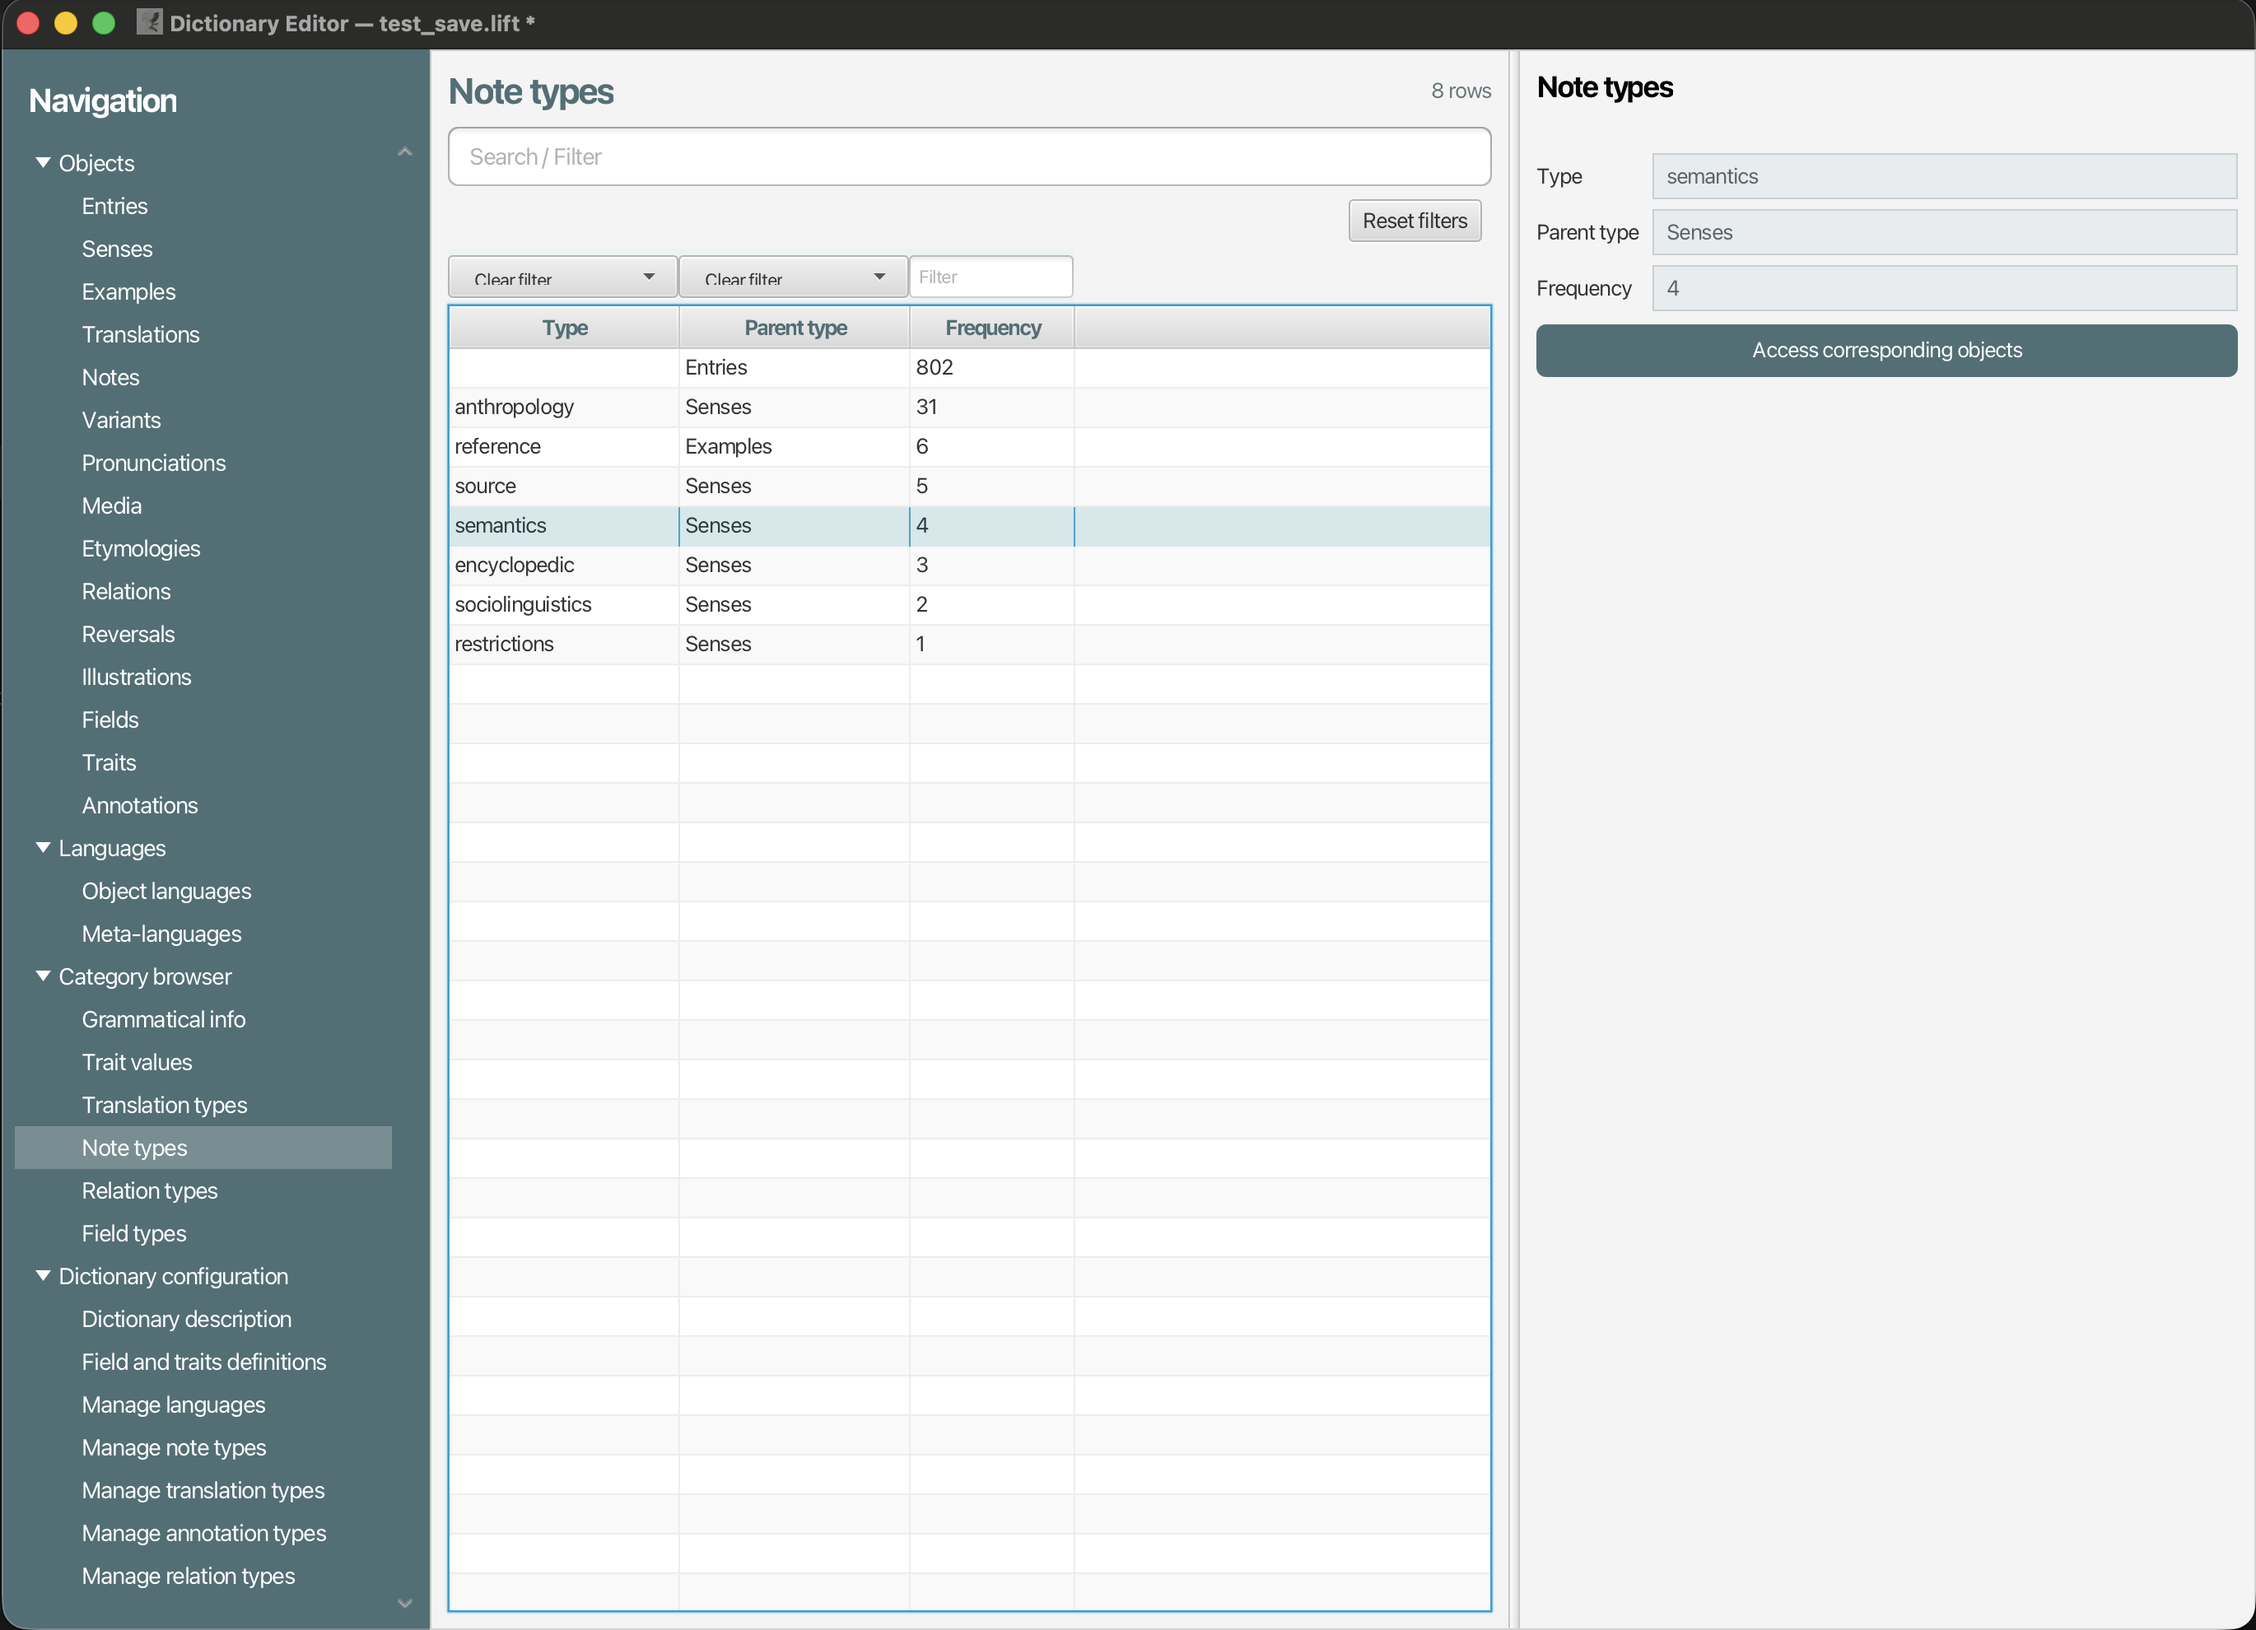
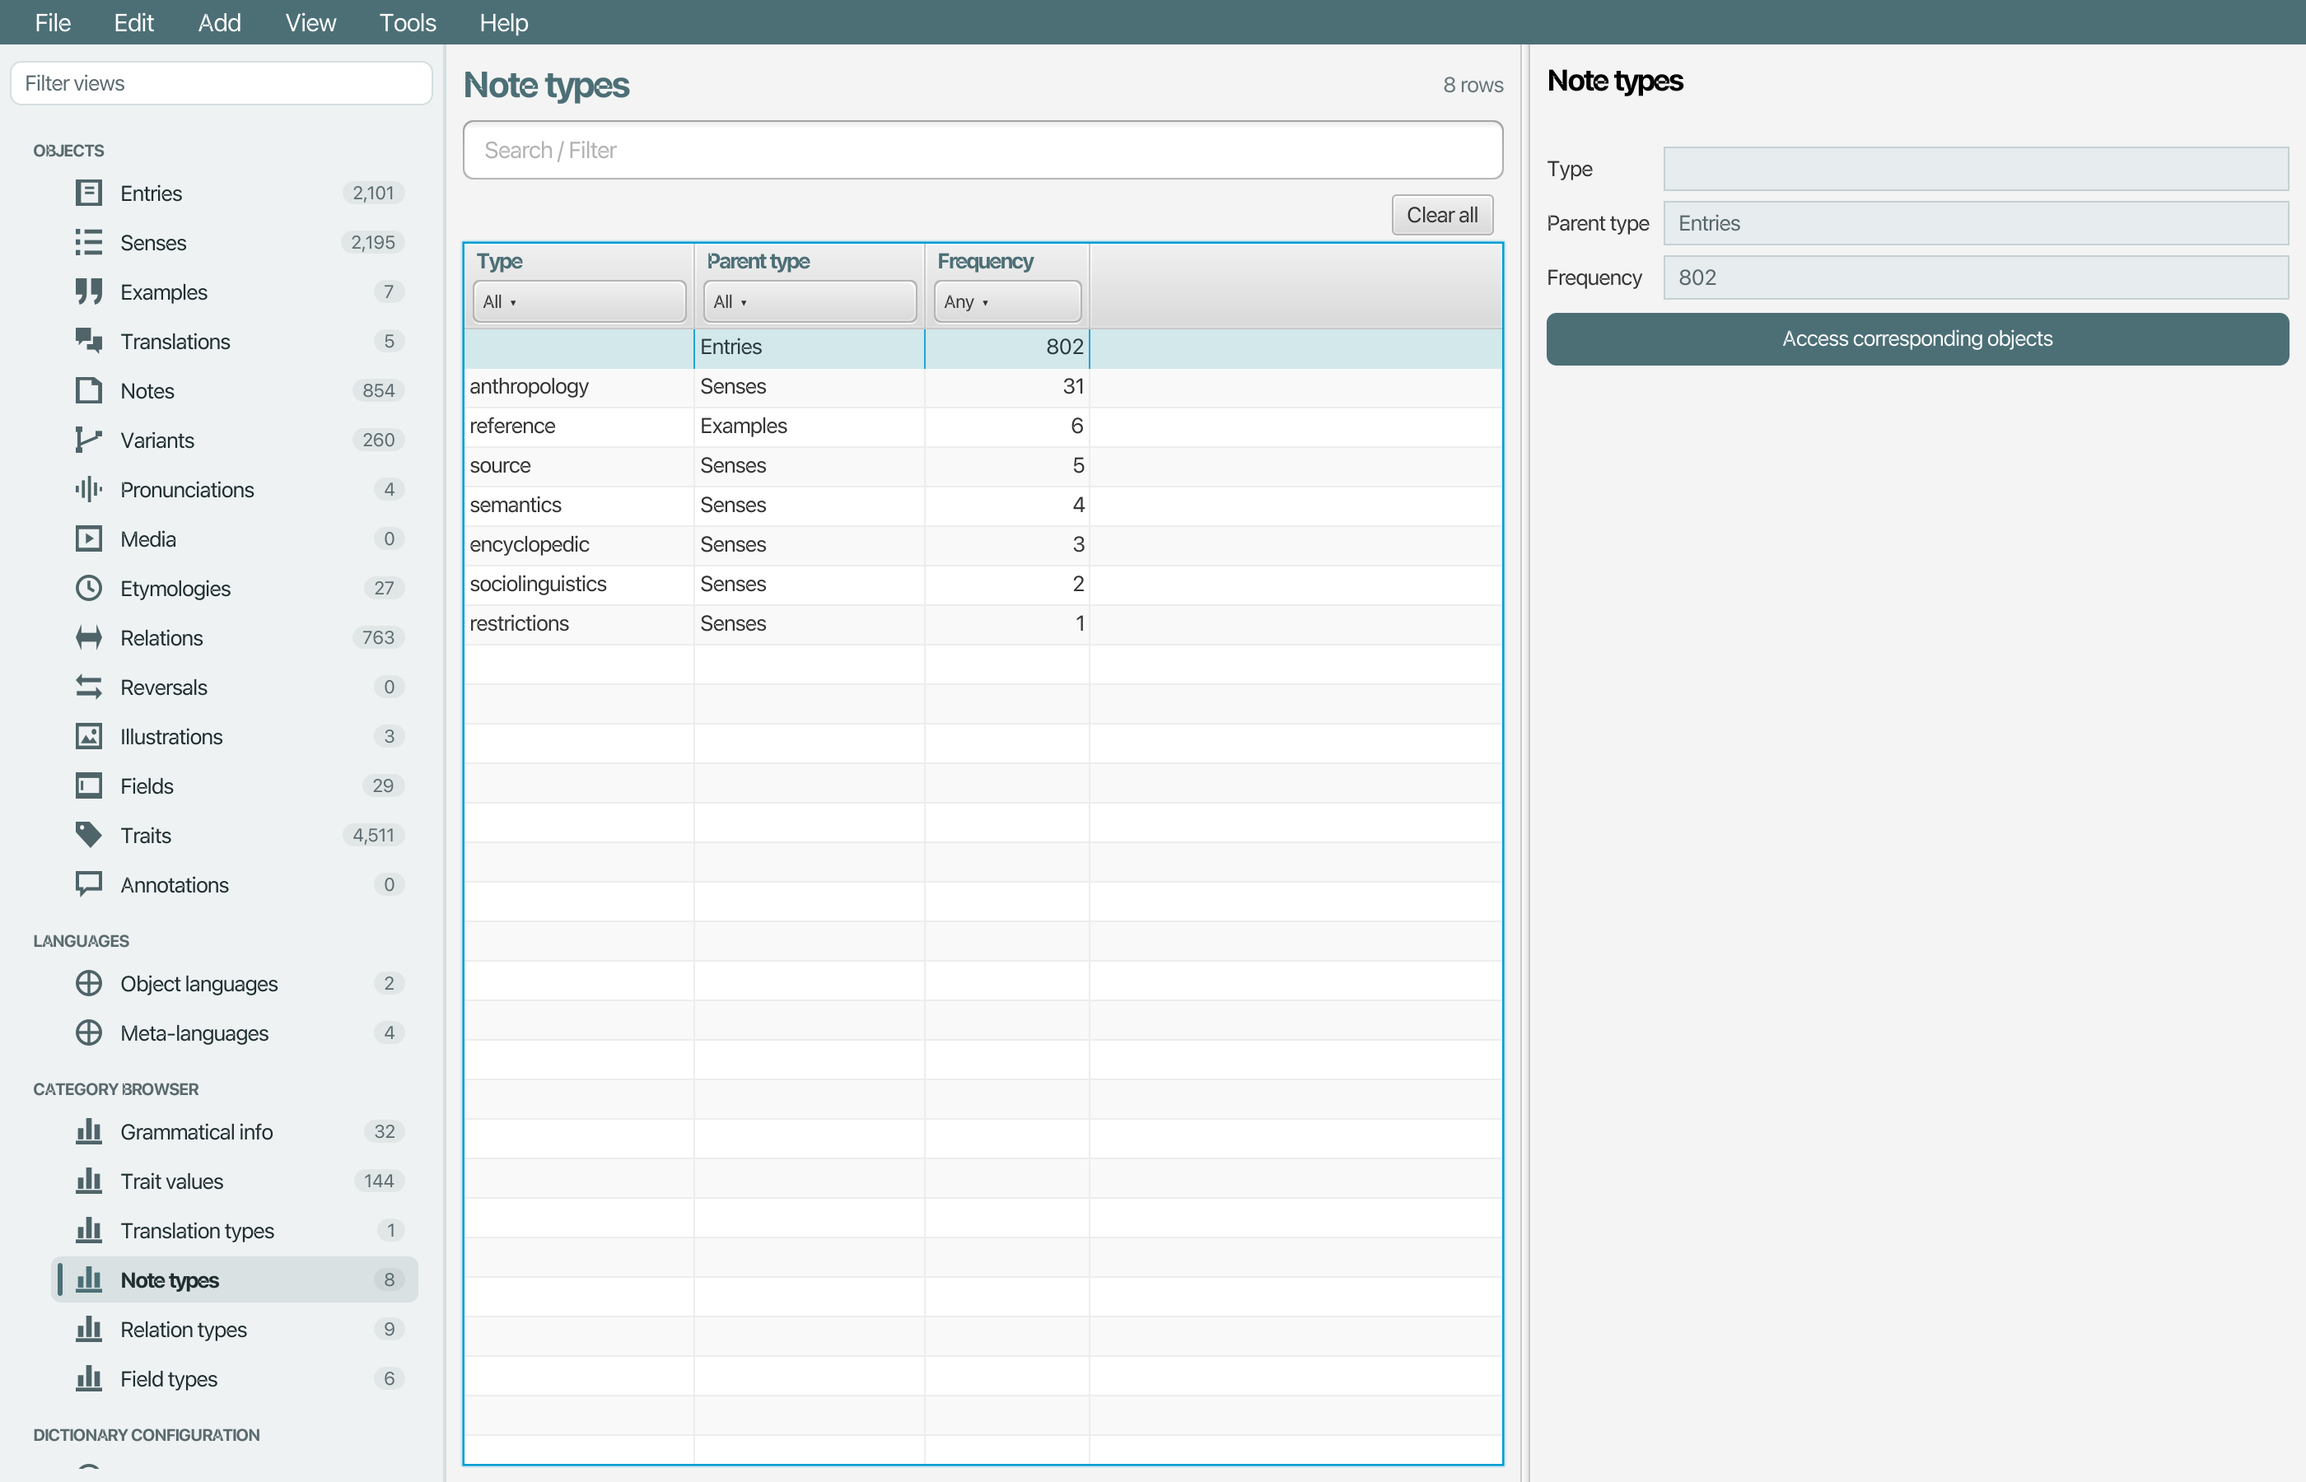
Generate the documentation screenshots with Maven (mvn -Pscreenshots verify)
- Doc/screenshots/java: a headless TestFX program (DocumentationScreenshotsIT)
  opening 20260302.lift and saving the window, at 2x, for five views.
- The screenshots profile: build-helper adds the sources, failsafe runs the
  program in integration-test, maven-resources copies target/screenshots to
  Doc/img in post-integration-test; -DskipUnitTests skips the unit tests.
- Doc/img regenerated; Doc/screenshots/README.md explains how to add one.
- A selected undeclared value stays readable when its list is not focused.

Changed region(s): [[0.0, 0.0, 1.0, 1.0]]

diff --git a/src/main/resources/fr/cnrs/lacito/liftgui/ui/app.css b/src/main/resources/fr/cnrs/lacito/liftgui/ui/app.css
@@ -736,8 +736,9 @@
 .table-row-cell.undeclared .table-cell {
   -fx-text-fill: #9aa5a8;
 }
-.tree-cell.undeclared:selected,
-.table-row-cell.undeclared:selected .table-cell {
+/* On the dark selection of a focused list; an unfocused selection is light: the grey stays. */
+.tree-view:focused .tree-cell.undeclared:selected,
+.table-view:focused .table-row-cell.undeclared:selected .table-cell {
   -fx-text-fill: #d9dfe0;
 }
 

diff --git a/Doc/screenshots/java/fr/cnrs/lacito/liftgui/doc/DocumentationScreenshotsIT.java b/Doc/screenshots/java/fr/cnrs/lacito/liftgui/doc/DocumentationScreenshotsIT.java
@@ -1,0 +1,133 @@
+package fr.cnrs.lacito.liftgui.doc;
+
+import static org.junit.jupiter.api.Assertions.*;
+
+import fr.cnrs.lacito.liftgui.ui.app.AppPreferences;
+import fr.cnrs.lacito.liftgui.ui.fx.MainWindowTest;
+import fr.cnrs.lacito.liftgui.ui.nav.NavNode;
+import java.awt.image.BufferedImage;
+import java.io.File;
+import java.io.IOException;
+import java.nio.file.Files;
+import java.nio.file.Path;
+import javafx.scene.SnapshotParameters;
+import javafx.scene.control.TreeItem;
+import javafx.scene.control.TreeView;
+import javafx.scene.image.PixelReader;
+import javafx.scene.image.WritableImage;
+import javafx.scene.transform.Transform;
+import javax.imageio.ImageIO;
+import org.junit.jupiter.api.Test;
+import org.testfx.util.WaitForAsyncUtils;
+
+/**
+ * Takes the screenshots of the documentation ({@code Doc/img}): the application opens the
+ * dictionary {@code 20260302.lift}, shows a view, selects a row, and the window is saved as
+ * a PNG file.
+ *
+ * Run by {@code mvn -Pscreenshots verify} (see the {@code screenshots} profile of the pom):
+ * the images are written to {@code target/screenshots}, then copied to {@code Doc/img}. The
+ * window is rendered headless, in English, at a fixed size, so the images do not depend on
+ * the machine.
+ *
+ * To add a screenshot: a method showing a view, then {@link #save(String)}.
+ */
+class DocumentationScreenshotsIT extends MainWindowTest {
+
+    /** Where the images go; set by the pom. */
+    private static final Path OUTPUT = Path.of(System.getProperty("screenshots.dir", "target/screenshots"));
+    /** The dictionary shown; set by the pom. */
+    private static final File DICTIONARY = new File(System.getProperty("screenshots.dictionary",
+        "src/main/resources/lift/20260302.lift"));
+    /** The pixel density of the images: 2 for screens of high density. */
+    private static final double SCALE = Double.parseDouble(System.getProperty("screenshots.scale", "2"));
+
+    /** The dictionary is opened as the last file used, as the application does at startup. */
+    @Override
+    public void init() {
+        super.init();
+        new AppPreferences().node().put("recent.file.0", DICTIONARY.getAbsolutePath());
+    }
+
+    @Test
+    void entries() throws IOException {
+        openView("nav.entries");
+        selectRow(0);
+        interact(() -> table().requestFocus());
+        save("entries.png");
+    }
+
+    @Test
+    void senses() throws IOException {
+        openView("nav.senses");
+        selectRow(0);
+        interact(() -> table().requestFocus());
+        save("Sense.png");
+    }
+
+    @Test
+    void metaLanguages() throws IOException {
+        openView("nav.metaLangs");
+        selectRow(0);
+        interact(() -> table().requestFocus());
+        save("MetaLanguages.png");
+    }
+
+    /** The range grammatical-info, under Dictionary configuration ▸ Ranges, its second element. */
+    @Test
+    void grammaticalInfo() throws IOException {
+        TreeItem<NavNode> range = navLeaves().stream()
+            .filter(i -> i.getValue() instanceof NavNode.Range r && r.range().getId().equals("grammatical-info"))
+            .findFirst().orElseThrow(() -> new AssertionError("no range grammatical-info"));
+        interact(() -> navTree().getSelectionModel().select(range));
+        WaitForAsyncUtils.waitForFxEvents();
+        TreeView<?> elements = lookup("#tableContainer .tree-view").queryAs(TreeView.class);
+        interact(() -> {
+            elements.getSelectionModel().select(1);
+            elements.scrollTo(0);
+            elements.requestFocus();
+            navTree().scrollTo(Math.max(0, navTree().getRow(range) - 10));
+        });
+        save("GramInfo.png");
+    }
+
+    /** Category browser ▸ Note types. */
+    @Test
+    void noteTypes() throws IOException {
+        openView("nav.noteTypes");
+        selectRow(0);
+        interact(() -> table().requestFocus());
+        save("BrowseNoteType.png");
+    }
+
+    /** Saves the window as {@code name} in the output directory. */
+    private void save(String name) throws IOException {
+        assertTrue(DICTIONARY.isFile(), "no dictionary " + DICTIONARY);
+        assertEquals(DICTIONARY.getAbsoluteFile(), document().file().getAbsoluteFile(), "the dictionary shown");
+        WaitForAsyncUtils.waitForFxEvents();
+        WritableImage[] image = new WritableImage[1];
+        interact(() -> {
+            stage.getScene().getRoot().applyCss();
+            stage.getScene().getRoot().layout();
+            SnapshotParameters params = new SnapshotParameters();
+            params.setTransform(Transform.scale(SCALE, SCALE));
+            image[0] = stage.getScene().getRoot().snapshot(params, null);
+        });
+        Files.createDirectories(OUTPUT);
+        ImageIO.write(toBufferedImage(image[0]), "png", OUTPUT.resolve(name).toFile());
+    }
+
+    /** The image as AWT's, for {@link ImageIO} (without the javafx-swing module). */
+    private static BufferedImage toBufferedImage(WritableImage image) {
+        int w = (int) image.getWidth();
+        int h = (int) image.getHeight();
+        PixelReader reader = image.getPixelReader();
+        BufferedImage b = new BufferedImage(w, h, BufferedImage.TYPE_INT_ARGB);
+        int[] row = new int[w];
+        for (int y = 0; y < h; y++) {
+            reader.getPixels(0, y, w, 1, javafx.scene.image.PixelFormat.getIntArgbInstance(), row, 0, w);
+            b.setRGB(0, y, w, 1, row, 0, w);
+        }
+        return b;
+    }
+}

diff --git a/TODO.md b/TODO.md
@@ -1,8 +1,4 @@
-## Automatically create screenshot of the app
-
-You will create a script for automatically create snapshot of the App for the documentation.
-
-The script will be in the Doc directory. It will be runned by maven during the appropriate maven phase.
+# TODO
 
 ## Documentation
 
@@ -43,3 +39,21 @@ Please make a plan for a good user experience, using modern GUI design and effic
 ## Column configuration + filter
 
 Could you make a plan to make column configurable for each component tables. The configuration should be done in the settings dialog but also through a button on the table header : please select a modern and efficient gui design for this. In addition to existing columns, that should be th default, columns configuration should offer to display any field existing on the component type, together with count of the various subcomponents and property of the parent and ancestor. Field that are multitext should generate as many column as languages. Please also include in the plan a redesign of the filtering widgets above each column. They tend not to follow the width of the column when they are resized. For different column type, different filtering tools should be provided: text (with ignore case and regexp) for multitext, drop down with selectable option for fixed-value column, min-max range for date and number (including those resulting from a count of subcomponents). Please elaborate a clean and future proof design and a modern and efficient gui  design. Ask question when needed and suggest improvements if relevant.
+
+## Automatically create screenshot of the app
+
+You will create a small program for automatically create screenshots of the App for the documentation.
+
+The program will be in the Doc directory. It will be runned by maven during the appropriate maven phase.
+
+The program will run the app, open the 20260302.lift dictionary, and then take various screenshots. All are png files:
+
+- open the "Entry" table, select the first row, and take a screenshot. The screenshot will be named "entries.png".
+- open the "Sense" table, select the first row, and take a snapshot.  The screenshot will be named "Sense.png".
+- open the "Meta-language" table, select the first row, and take a snapshot.  The screenshot will be named "MetaLanguages.png".
+- open the "grammatical-info" table under "Ranges", select the second row, and take a snapshot.  The screenshot will be named "GramInfo.png".
+- open the "Note types" table under "Category browsers", select the first row, and take a snapshot.  The screenshot will be named "BrowseNoteType.png".
+
+Then move all screenshots into `Doc/img/` directory.
+
+Please look for modern and standard way to manage such a task. Provide a clean and future-proof solution. Select the technology accordingly.

diff --git a/Doc/screenshots/README.md b/Doc/screenshots/README.md
@@ -1,0 +1,33 @@
+# Screenshots of the documentation
+
+The images of `Doc/img` are made by a program, not by hand:
+
+```sh
+mvn -Pscreenshots verify -DskipUnitTests
+```
+
+What happens:
+
+1. **Compiling.** The `screenshots` profile of the `pom.xml` adds `Doc/screenshots/java` to the test sources.
+2. **Taking the screenshots.** In the `integration-test` phase, maven-failsafe runs `DocumentationScreenshotsIT`, a TestFX program:
+   - it starts the application headless (Monocle), in English, with fresh preferences;
+   - it opens `src/main/resources/lift/20260302.lift`;
+   - for each image, it shows a view, selects a row, and saves the window (1400 × 900, rendered at 2×) in `target/screenshots`.
+3. **Copying.** In the `post-integration-test` phase, the images are copied to `Doc/img`, replacing the old ones.
+
+Leave out `-DskipUnitTests` to run the unit tests too.
+
+| Image | View | Row selected |
+|---|---|---|
+| `entries.png` | Objects ▸ Entries | 1st |
+| `Sense.png` | Objects ▸ Senses | 1st |
+| `MetaLanguages.png` | Languages ▸ Meta-languages | 1st |
+| `GramInfo.png` | Dictionary configuration ▸ Ranges ▸ grammatical-info | 2nd |
+| `BrowseNoteType.png` | Category browser ▸ Note types | 1st |
+
+**Options** (`-D…`):
+
+- `screenshots.scale=1`: images at 1×; the default, 2, suits high-density screens;
+- `headless=false -Dglass.platform=`: watch the window while the images are taken.
+
+**Adding an image:** in `DocumentationScreenshotsIT`, write a `@Test` method that shows the view and calls `save("Name.png")`. It reuses the helpers of the UI tests (`MainWindowTest`: `openView`, `selectRow`…).
